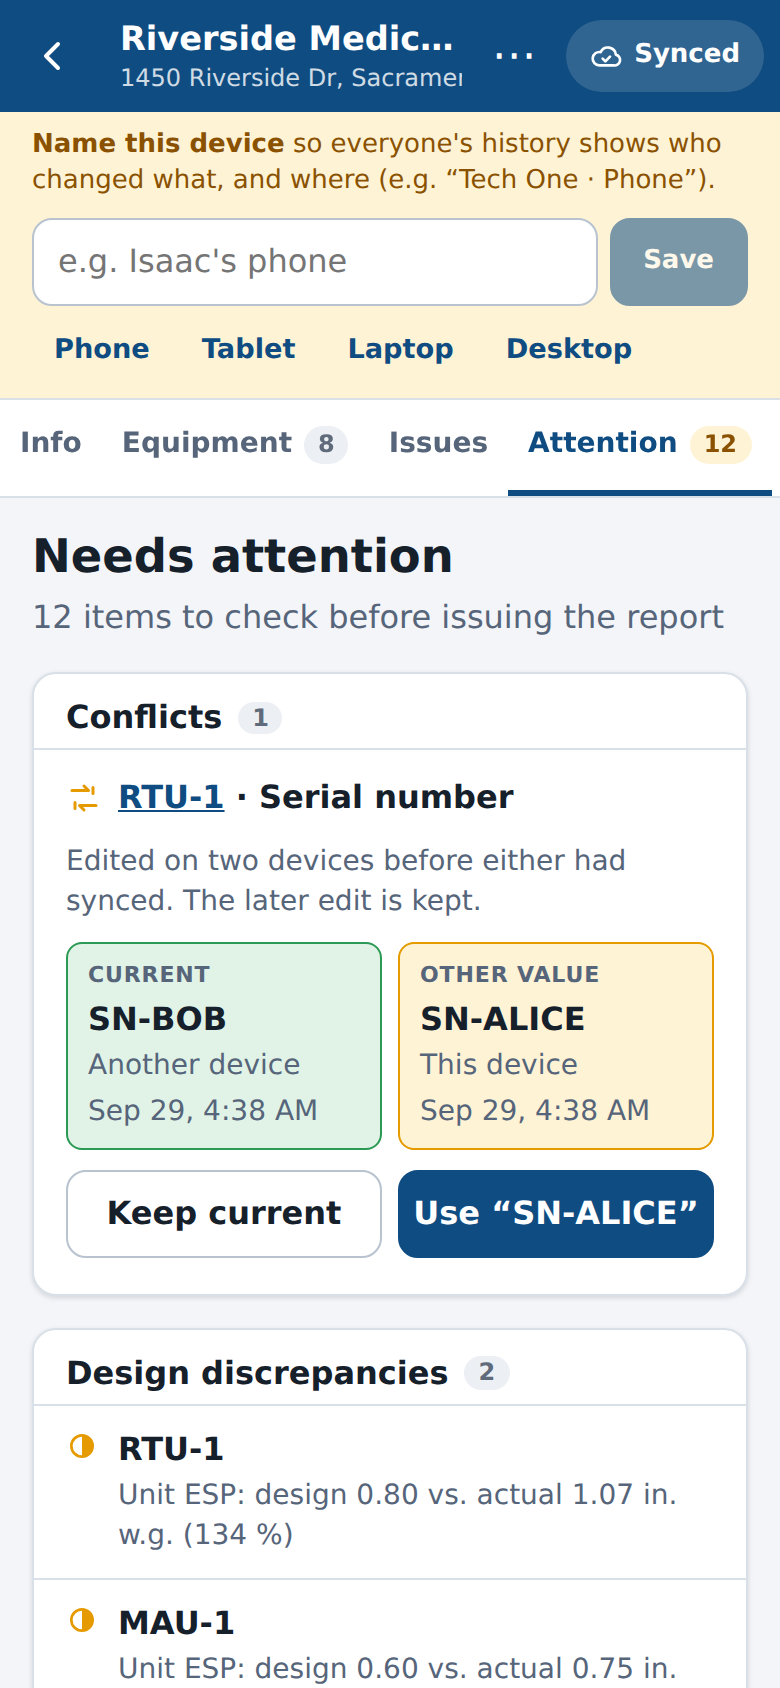
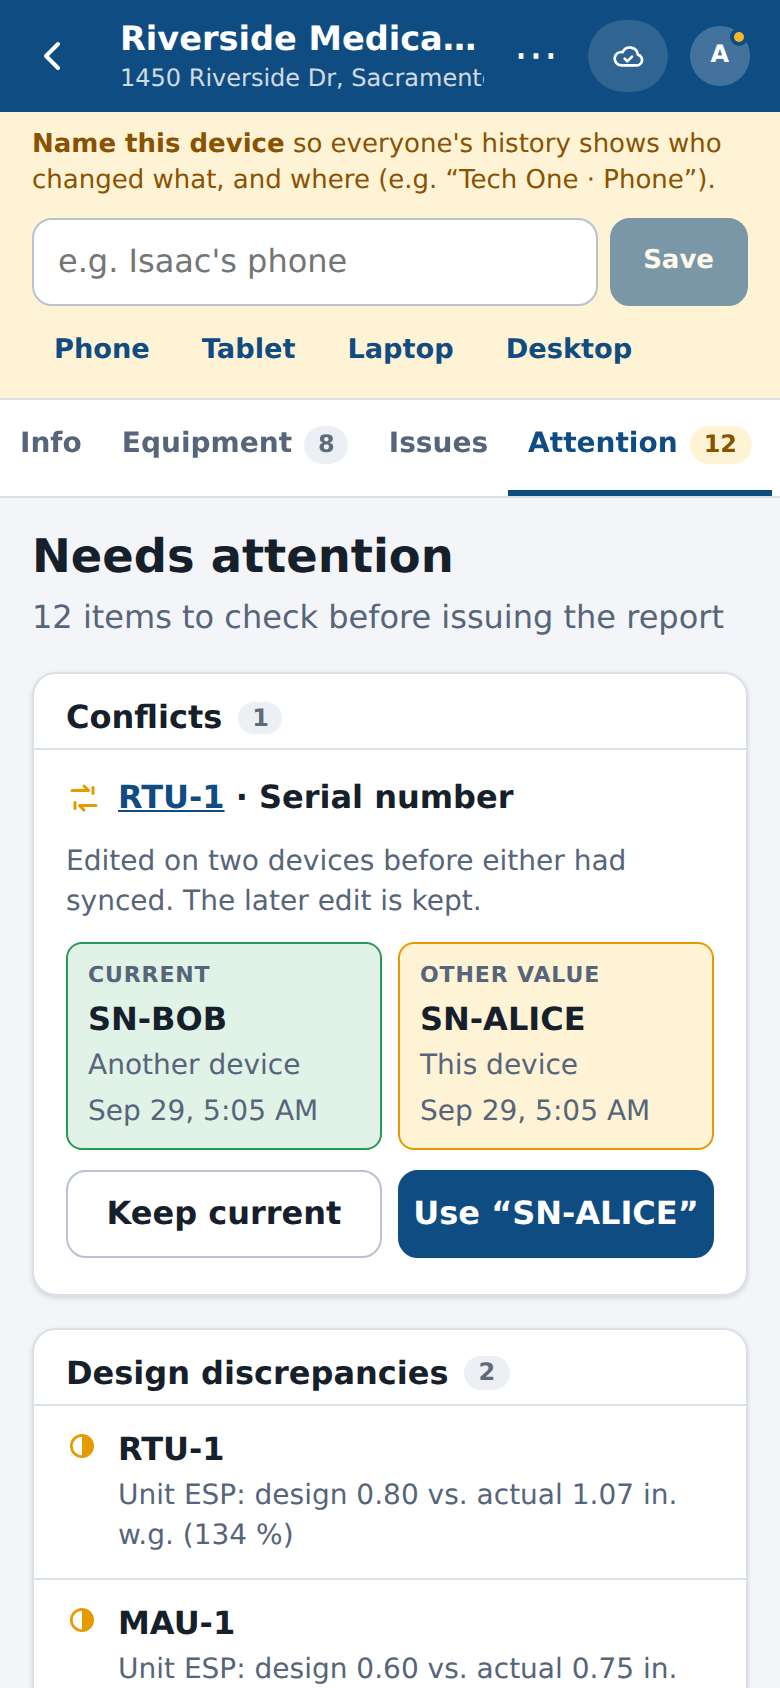
Header account button (initials) opens Sync & account
Signed in: initials; signed out: a person icon; a yellow dot when the
user must sign in or name the device. Hidden in local mode. On phones
the sync pill shows just its icon when synced.

Claude-Session: https://claude.ai/code/session_01PNtGmhddJ29GwF26V46GRM

diff --git a/app/src/ui/components/AppHeader.tsx b/app/src/ui/components/AppHeader.tsx
@@ -1,8 +1,8 @@
 import type { ReactNode } from 'react';
 import { Link, useLocation } from 'react-router';
-import { DeviceNameBanner } from './DeviceName';
+import { DeviceNameBanner, useDeviceName } from './DeviceName';
 import { useSync, type SyncStatus } from '../../sync/SyncProvider';
-import { IconBack, IconCloudCheck, IconCloudOff, IconCloudUp, IconDevice } from './Icons';
+import { IconBack, IconCloudCheck, IconCloudOff, IconCloudUp, IconDevice, IconUser } from './Icons';
 
 export function SyncIndicator() {
   const s = useSync();
@@ -41,8 +41,43 @@ export function SyncIndicator() {
       data-testid="sync-status"
     >
       {icon}
-      {text[s.status]}
+      {s.status === 'synced' ? <span className="hide-sm">{text.synced}</span> : text[s.status]}
       {s.status === 'local' && (s.online ? <span className="hide-sm"> mode</span> : <span> · offline</span>)}
+    </Link>
+  );
+}
+
+/** "Dana Kim" → "DK", "dana@a2b.com" → "D". */
+export function initials(name: string): string {
+  const words = name
+    .replace(/@.*/, '')
+    .split(/[\s._-]+/)
+    .filter(Boolean);
+  return words
+    .slice(0, 2)
+    .map((w) => w[0].toUpperCase())
+    .join('');
+}
+
+/** The account button: who is signed in (initials), sign-in / sign-out and this device's name, on Sync & account. */
+export function AccountButton() {
+  const s = useSync();
+  const deviceName = useDeviceName();
+  const who = s.user ? s.user.name || s.user.email || 'Signed in' : null;
+  // a dot when something needs doing: sign in, or name this device
+  const needs = s.status === 'signed-out' || (Boolean(s.user) && deviceName === '');
+  if (s.status === 'local') return null; // no accounts in local mode: the Local pill explains it
+  const label = who
+    ? `Account: ${who}${deviceName ? ` · ${deviceName}` : ' · this device has no name'}`
+    : 'Account: not signed in';
+  return (
+    <Link to="/account" className="account-btn" aria-label={label} title={label} data-testid="account-button">
+      {who ? (
+        <span className="account-initials">{initials(who) || <IconUser size={18} />}</span>
+      ) : (
+        <IconUser size={20} />
+      )}
+      {needs && <span className="account-dot" aria-hidden />}
     </Link>
   );
 }
@@ -76,6 +111,7 @@ export function AppHeader({
         </div>
         {actions}
         <SyncIndicator />
+        <AccountButton />
       </div>
     </header>
   );

diff --git a/app/src/ui/sync.test.tsx b/app/src/ui/sync.test.tsx
@@ -170,10 +170,16 @@ describe('device name', () => {
     await db.meta.put({ key: 'cloudUser', value: USER.id });
     renderAt('/account');
     const banner = await screen.findByTestId('device-name-banner');
+    expect(screen.getByTestId('account-button')).toHaveAccessibleName('Account: Dana Kim · this device has no name');
+    expect(screen.getByTestId('account-button').querySelector('.account-dot')).not.toBeNull();
     await user.click(within(banner).getByRole('button', { name: 'Phone' }));
     await user.click(within(banner).getByRole('button', { name: 'Save' }));
     await waitFor(() => expect(screen.queryByTestId('device-name-banner')).toBeNull());
     expect((await db.meta.get('deviceName'))?.value).toBe('Phone');
+    const account = screen.getByTestId('account-button');
+    expect(account).toHaveAttribute('href', '/account');
+    expect(account).toHaveTextContent('DK');
+    await waitFor(() => expect(account).toHaveAccessibleName('Account: Dana Kim · Phone'));
     const field = within(screen.getByTestId('account-device-name')).getByLabelText('Device name');
     await waitFor(() => expect(field).toHaveValue('Phone'));
     // own history entries carry the signed-in name and the device name
@@ -187,6 +193,7 @@ describe('device name', () => {
     renderAt('/');
     await screen.findByTestId('local-banner');
     expect(screen.queryByTestId('device-name-banner')).toBeNull();
+    expect(screen.queryByTestId('account-button')).toBeNull();
   });
 });
 

diff --git a/app/src/styles/app.css b/app/src/styles/app.css
@@ -2269,6 +2269,7 @@ fieldset.viewer-edit {
 
 /* ---------------------------------------------------------------- sync: account, conflicts */
 .sync-pill {
+  flex: none;
   text-decoration: none;
 }
 .row-actions {
@@ -2793,4 +2794,42 @@ fieldset.viewer-edit {
 }
 .btn-danger-text {
   color: var(--red);
+}
+
+.account-btn {
+  position: relative;
+  min-width: var(--tap);
+  min-height: var(--tap);
+  display: inline-flex;
+  align-items: center;
+  justify-content: center;
+  border-radius: 999px;
+  color: inherit;
+  text-decoration: none;
+  flex: none;
+}
+.account-btn:hover {
+  background: rgb(255 255 255 / 12%);
+}
+.account-initials {
+  width: 30px;
+  height: 30px;
+  display: inline-flex;
+  align-items: center;
+  justify-content: center;
+  border-radius: 999px;
+  background: rgb(255 255 255 / 22%);
+  font-size: 0.75rem;
+  font-weight: 700;
+  letter-spacing: 0.02em;
+}
+.account-dot {
+  position: absolute;
+  top: 8px;
+  right: 8px;
+  width: 9px;
+  height: 9px;
+  border-radius: 999px;
+  background: #f5b82e;
+  border: 2px solid var(--primary);
 }

diff --git a/app/src/ui/components/Icons.tsx b/app/src/ui/components/Icons.tsx
@@ -32,6 +32,12 @@ export const IconDevice = (p: P) => (
     <path d="M11 18h2" />
   </svg>
 );
+export const IconUser = (p: P) => (
+  <svg {...base(p)}>
+    <circle cx="12" cy="8" r="4" />
+    <path d="M4 21a8 8 0 0 1 16 0" />
+  </svg>
+);
 export const IconCloudCheck = (p: P) => (
   <svg {...base(p)}>
     <path d="M17.5 19H7a5 5 0 1 1 1-9.9A6 6 0 0 1 19.4 11 4 4 0 0 1 17.5 19z" />

diff --git a/docs/TRACKER.md b/docs/TRACKER.md
@@ -127,6 +127,7 @@ Last updated: 2026-09-25
 | 2026-09-28 | **Review of the sync / certification work (fixed):** a unit's delete whose cascade spans two pull pages is still one *deleted* card with its rows (children wait for their unit until the pull ends); two certification profiles created offline merge into the oldest (missing images / values move over, a different value becomes a conflict card on the certification page, the duplicate is deleted); the device id `server` is reserved on the server; an issue change counts for the review check; a damaged synced image is ignored (the export still works); a box that already holds a picture (a stamp inserted in Excel) is left alone with an export warning. *(Claude, pending user review)* |
 | 2026-09-28 | **QR tags** hold a link to the app (`<address>/t/<projectId>/<unitId>`), not the designation: a tag opens the exact unit even when two projects have an RTU-1, and a phone camera opens it without the app. Consequence: tags are tied to the app's address (decide the custom address before printing, see SETUP_ACCOUNTS §4) and to that project (a re-test next year in a new project needs new tags). Libraries added: `qrcode-generator` (MIT) and `jsqr` (Apache-2.0, loaded only on the Scan page). *(Claude, pending user review)* |
 | 2026-09-29 | **Device names (after the two-device test):** after sign-in a banner asks each device for a name (Phone / Tablet / Laptop / Desktop chips or typed, max 40 characters; kept on the device, editable in Sync & account). A banner, not a hard block, so nobody is stopped on site; the history reads *RTU-1 · … · tech1 · Phone*, unnamed devices *device 3f9a*. The person's name is set by the server from the signed-in account (0007), so it can't be faked. **Project delete** moved to a ⋯ menu in the project header (also still in Info → Danger zone); signed in, the confirmation says it deletes for everyone. *(Claude, pending user review)* |
+| 2026-09-29 | **Account button** in the header (initials when signed in, a person icon when signed out) opens Sync & account; a yellow dot when the user must sign in or name the device. Hidden in local mode (no accounts; the *Local* pill already explains it). On phones the pill shows only the cloud icon when synced, to make room. *(Claude, pending user review)* |
 | 2026-09-23 | **Revision 05 built.** The app now targets revision 05 (same layout as 04, so the revision 04 analysis applies). |
 | 2026-09-23 | **The app targets revision 04 (`04 - a2b_Blank_TAB_Workbook 9-18-26.xlsm`)**, which includes the Evergreen hood method, MAU supply methods, building pressures, cover photo box, traverse grids, Equipment Summary and Small Fans. |
 

diff --git a/docs/guide/USER_GUIDE.md b/docs/guide/USER_GUIDE.md
@@ -876,6 +876,10 @@ the person who signed in and the device's name (see *Name this device* below).
 After you sign in, a yellow banner asks **Name this device**: tap **Phone**, **Tablet**, **Laptop** or **Desktop** (or
 type something like *Dana's iPad*) and **Save**. The History on every device then shows who made a change **and on
 which device**, e.g. *Dana Kim · Phone* instead of *device 3f9a*. Change it later in **Sync & account → This device**.
+
+**Your account:** the round button at the top right (your initials) opens **Sync & account**: who is signed in, this
+device's name, **Sync now** and **Sign out**. A yellow dot on it means something needs doing (sign in, or name this
+device). The status pill next to it (cloud icon) opens the same page.
 The name is kept on the device (not in your account), so each device is named once.
 
 ### Signing out on a shared device (with cloud sync)
